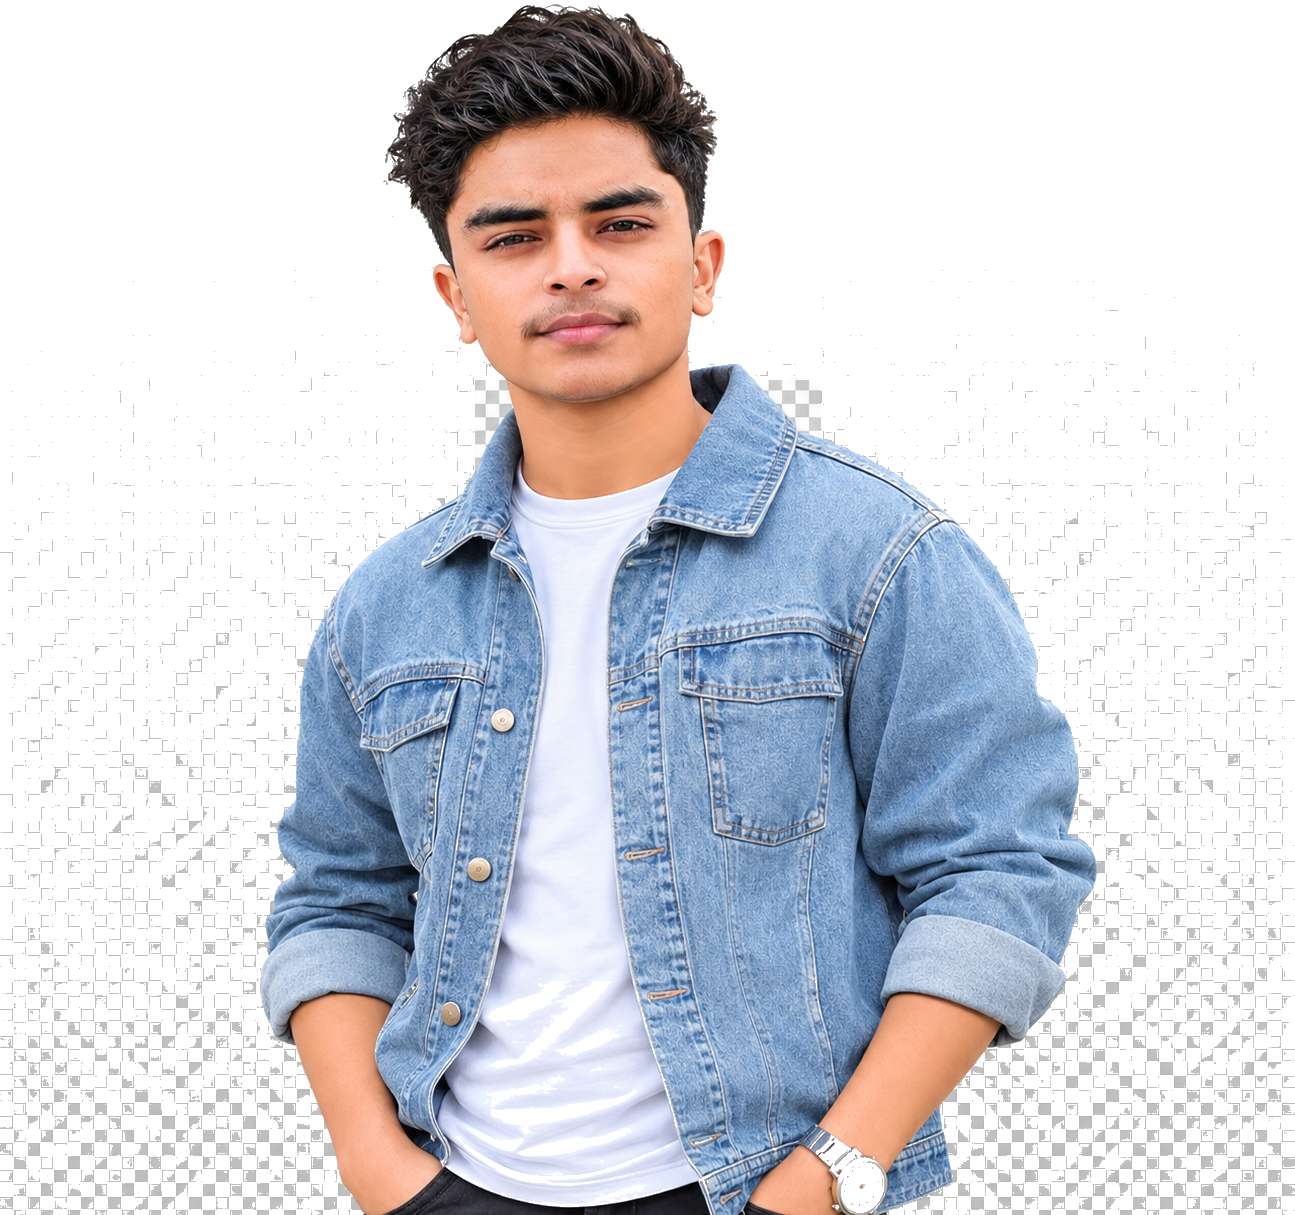
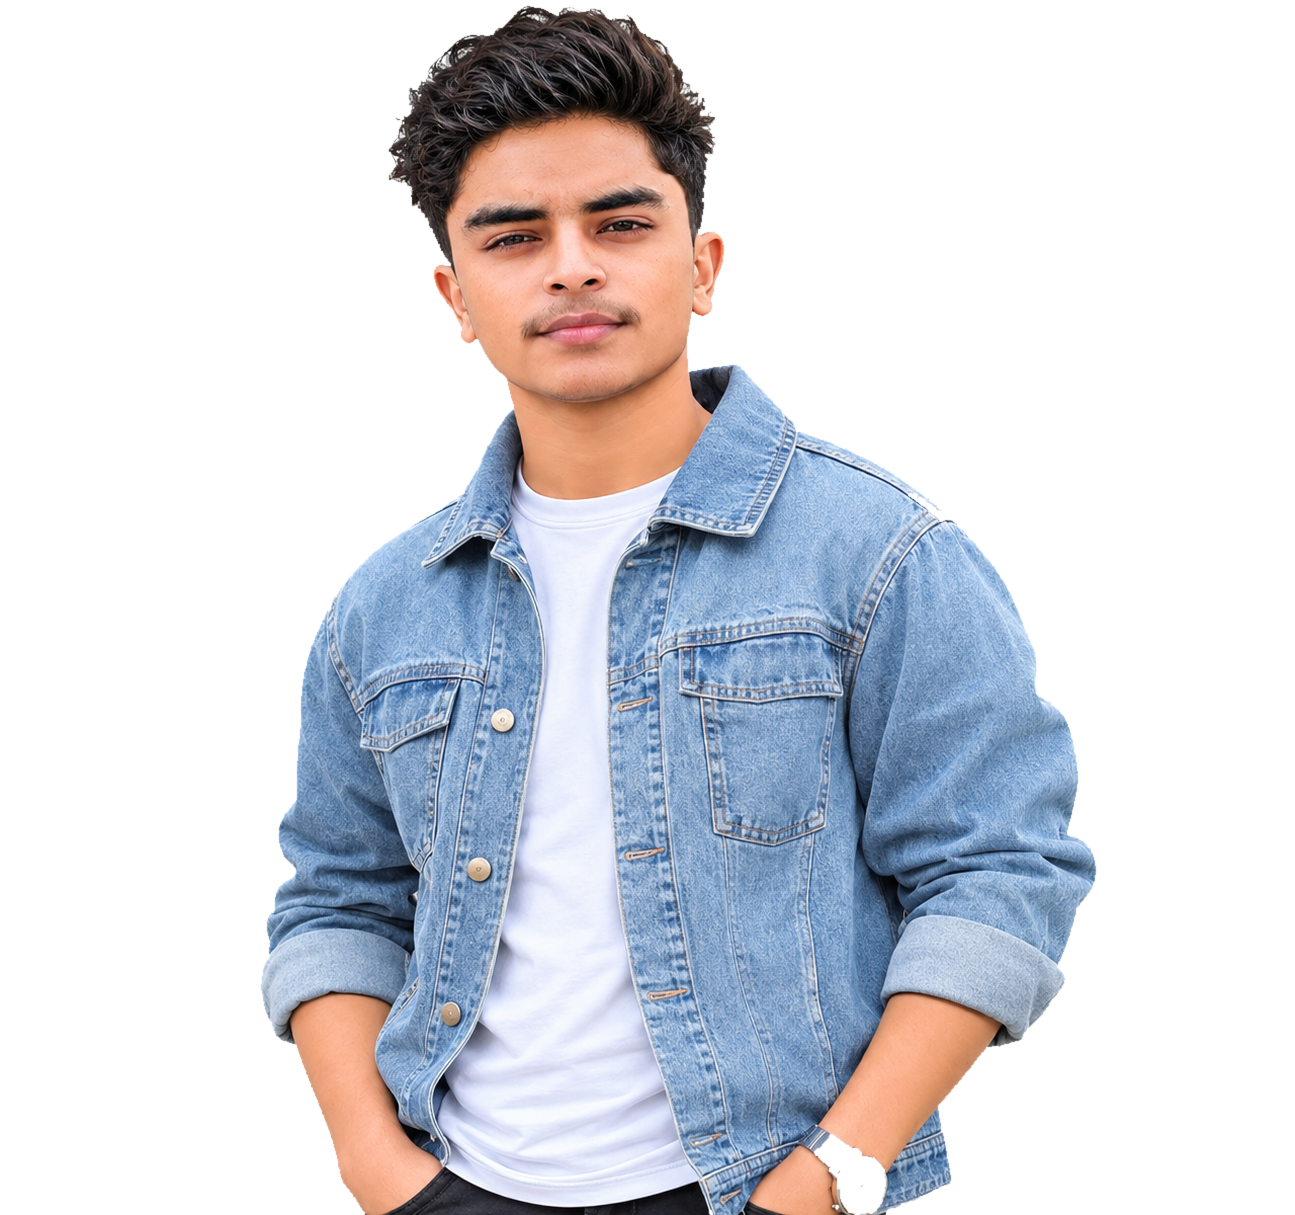
feat: replace hero portrait with user-provided rahil_portfolio_transparent.png

diff --git a/src/components/Hero.jsx b/src/components/Hero.jsx
@@ -1,7 +1,7 @@
 import React, { useEffect, useRef } from "react";
 import gsap from "gsap";
 import { ScrollTrigger } from "gsap/ScrollTrigger";
-import heroImg from "../assets/hero-portrait.png";
+import heroImg from "../assets/rahil_portfolio_transparent.png";
 
 gsap.registerPlugin(ScrollTrigger);
 
